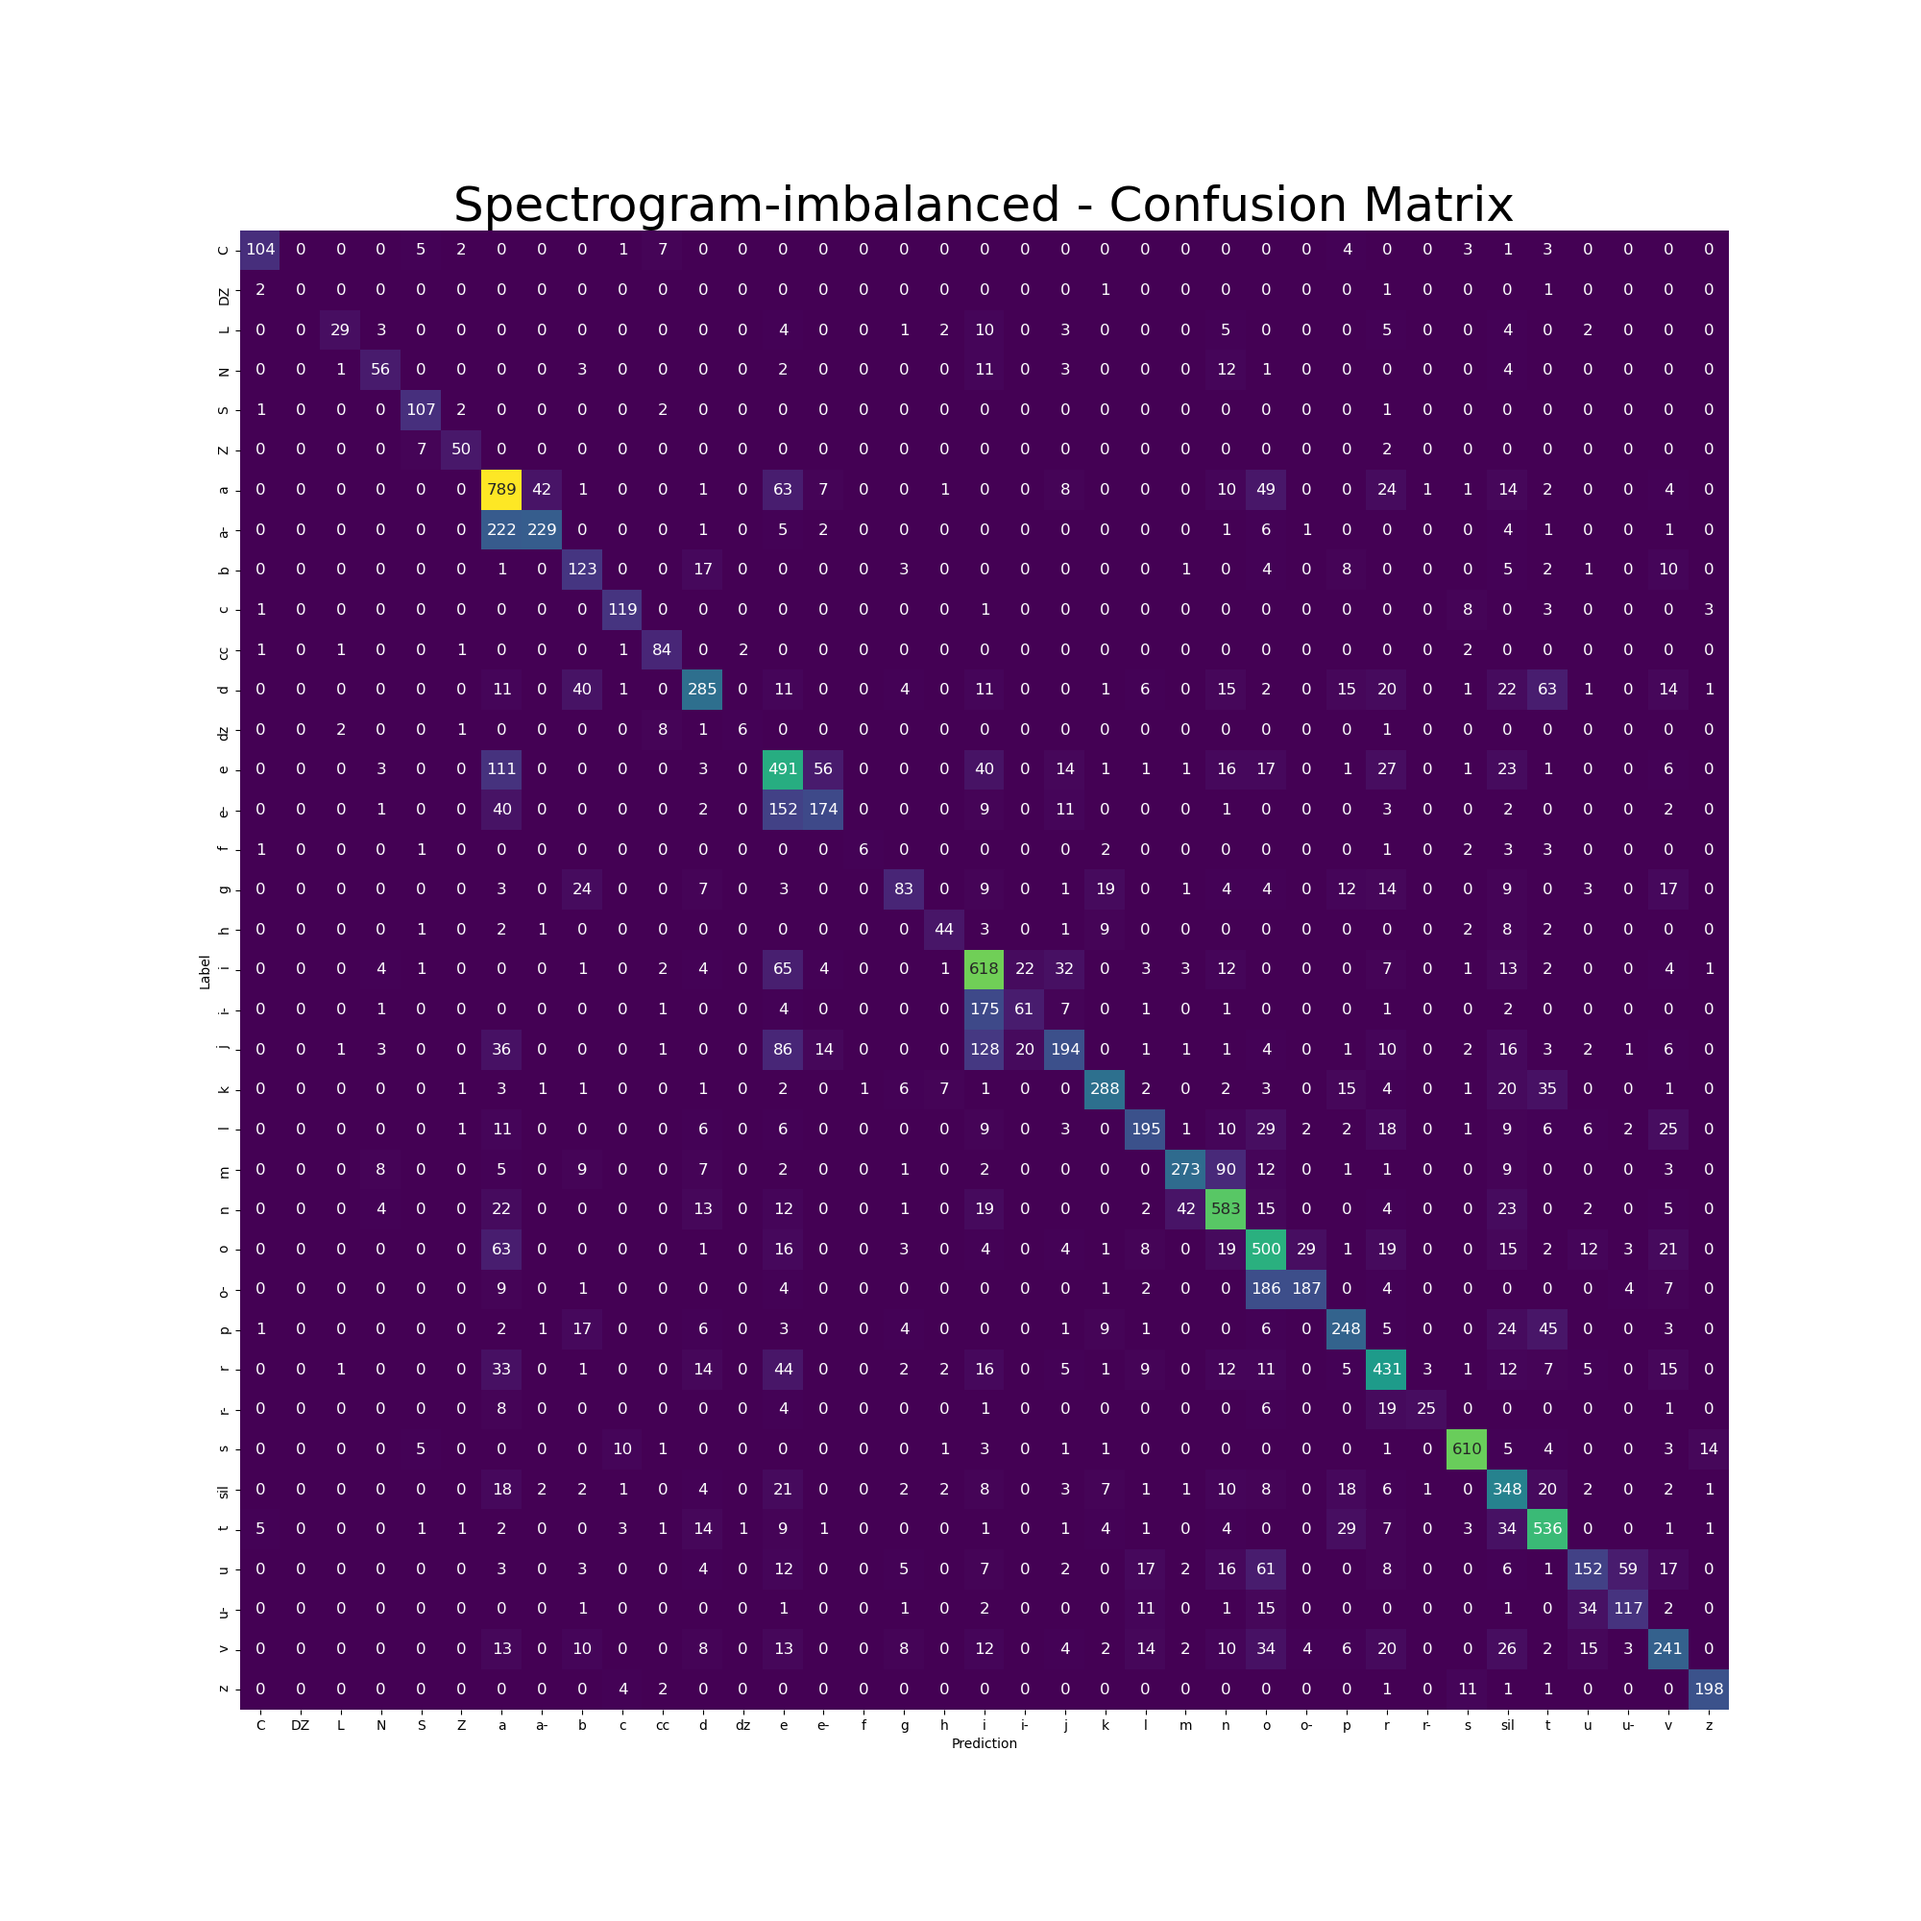
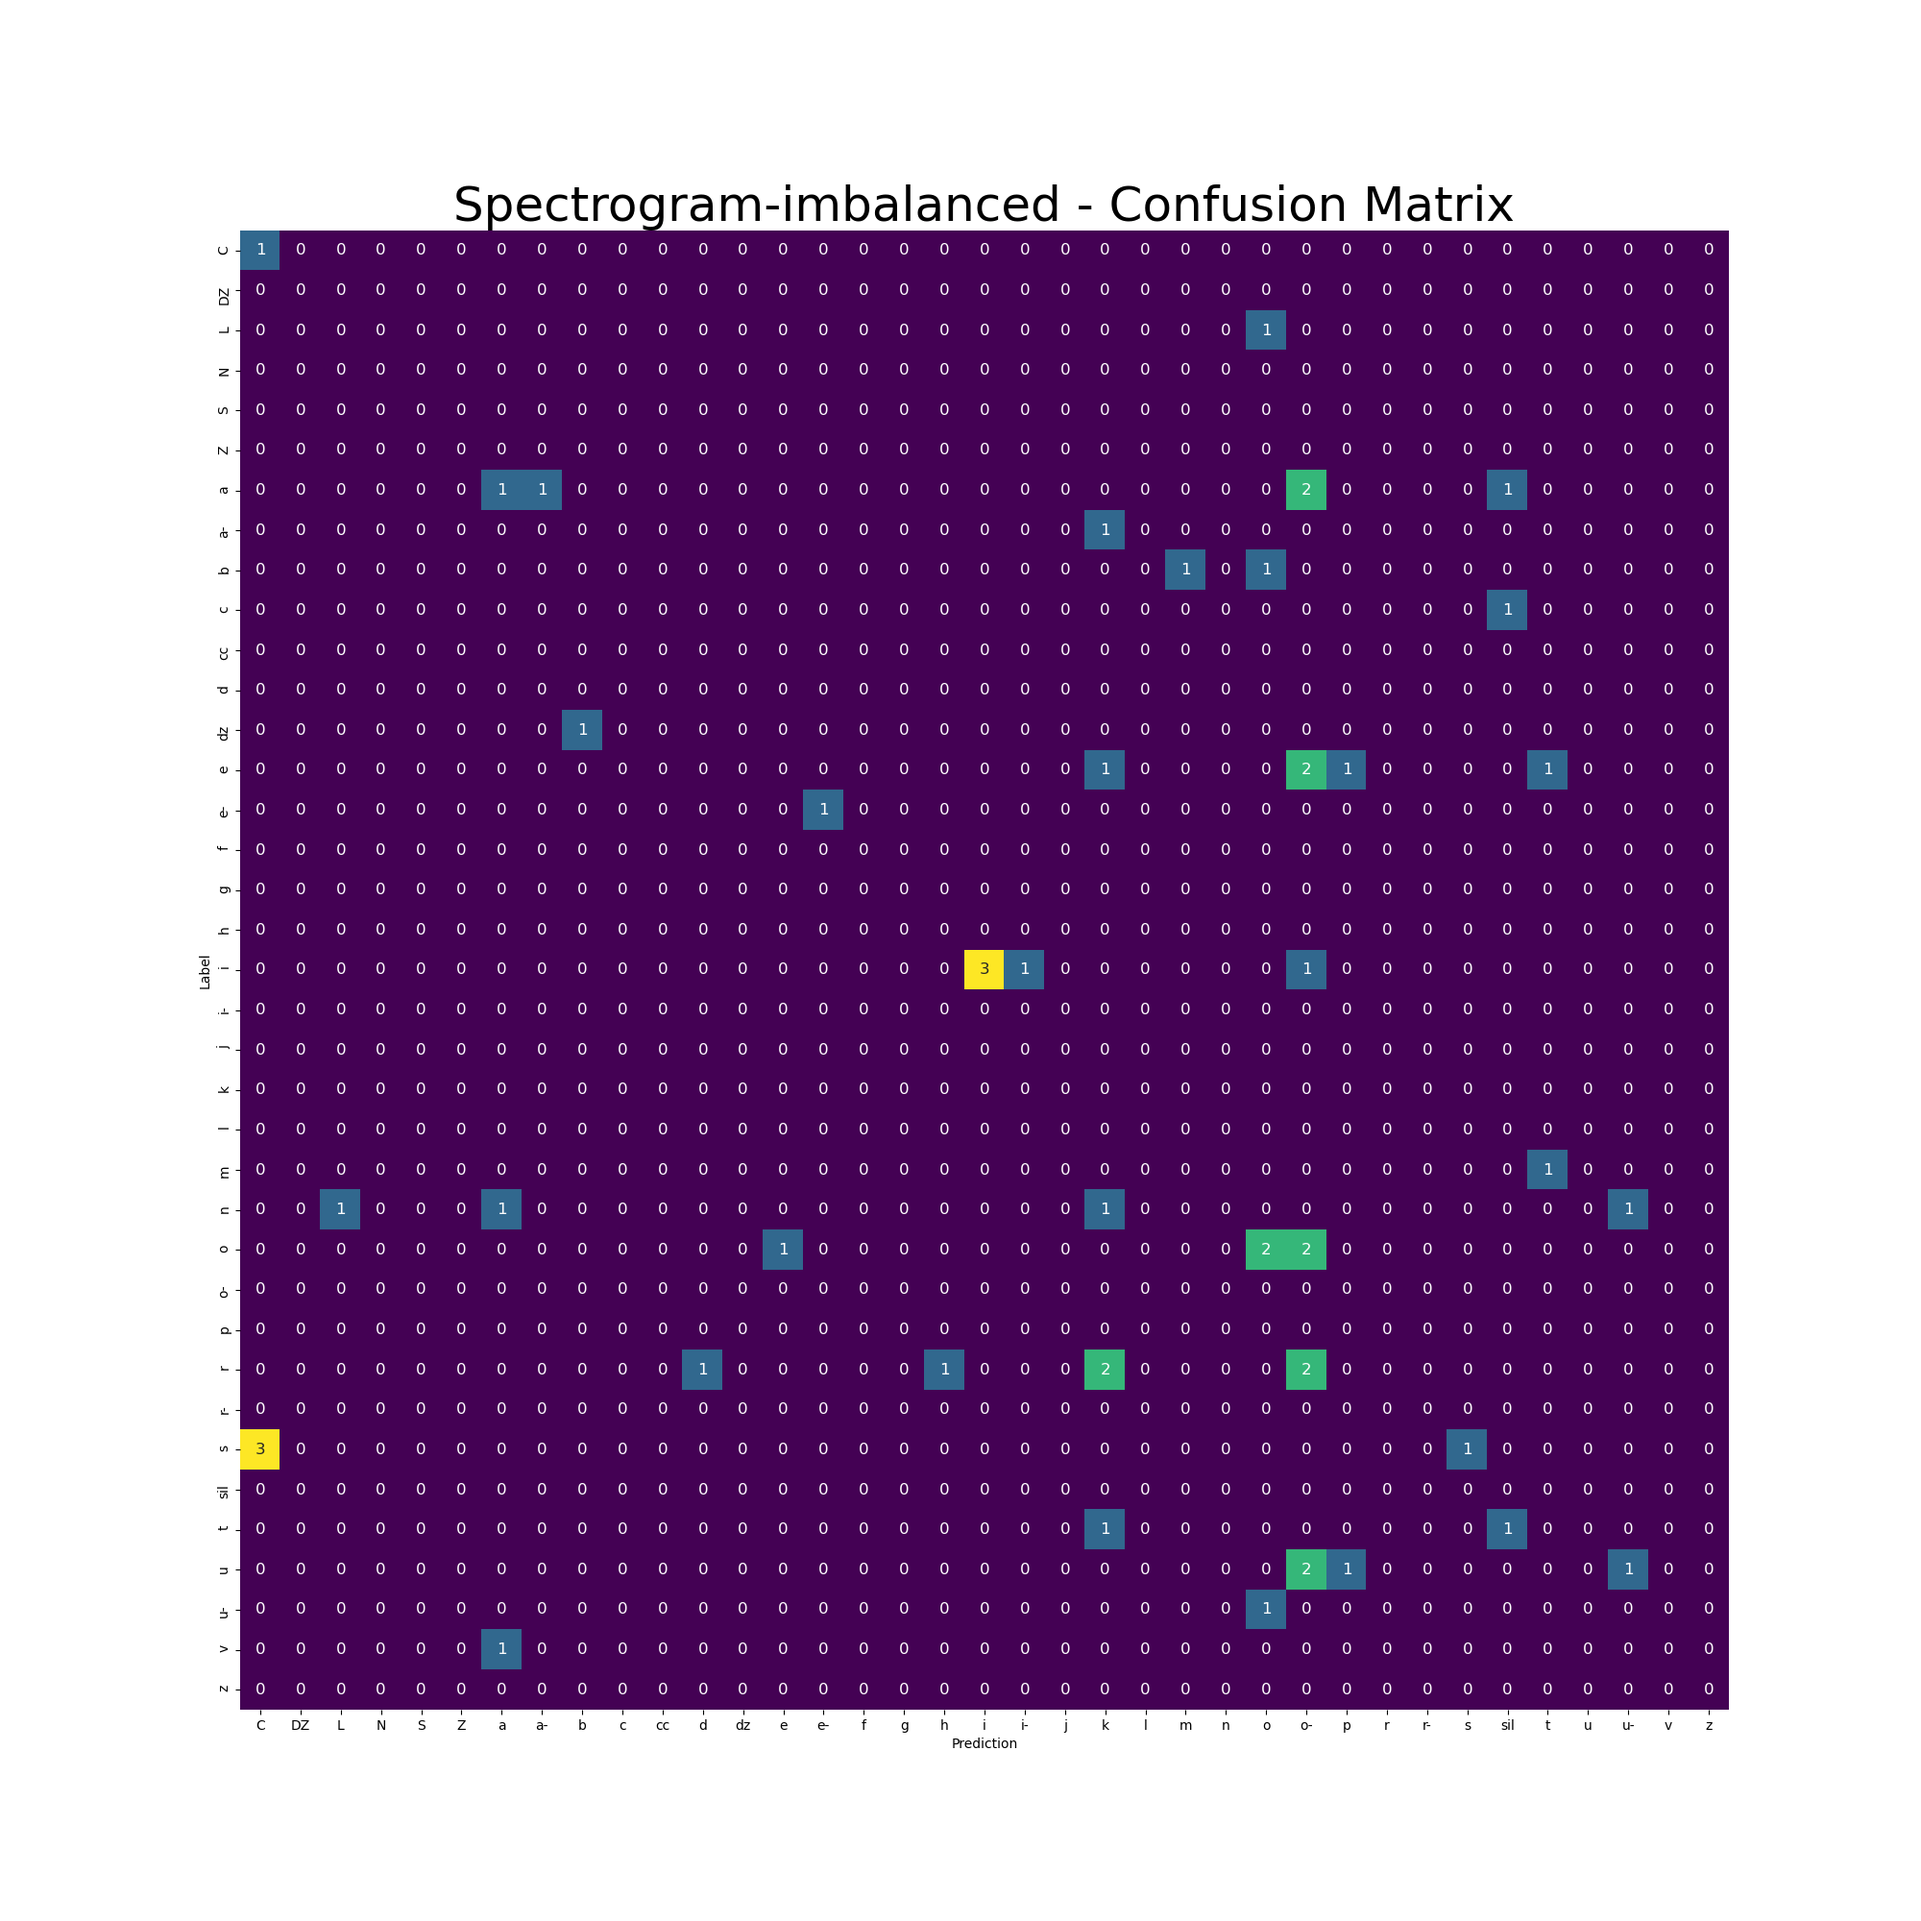
validate with new sounds

diff --git a/data_processing.py b/data_processing.py
@@ -1,6 +1,6 @@
 import numpy as np
 import os
-from snd_cut import cut_path
+from snd_cut import cut_path, recorded_cut_wav_path
 import librosa
 import re
 import librosa.display
@@ -26,6 +26,7 @@ class DatasetDistribution(Enum):
 train_file_path_txt = os.path.join('data', 'train_set.txt')
 test_file_path_txt = os.path.join('data', 'test_set.txt')
 validation_file_path_txt = os.path.join('data', 'validation_set.txt')
+recorded_validation_file_path_txt = os.path.join('data', 'recorded_validation_set.txt')
 
 # txt file that contains all labels
 labels_path_txt = os.path.join('data', 'labels.txt')
@@ -34,6 +35,7 @@ labels_path_txt = os.path.join('data', 'labels.txt')
 train_dataset_path_json = os.path.join('data', 'train_dataset.json')
 test_dataset_path_json = os.path.join('data', 'test_dataset.json')
 validation_dataset_path_json = os.path.join('data', 'validation_dataset.json')
+recorded_validation_dataset_path_json = os.path.join('data', 'recorded_validation_dataset.json')
 
 image_path = os.path.join('images')
 trained_model_path = os.path.join('trained_models')
@@ -48,6 +50,7 @@ def split_data():
     train = []
     test = []
     validation = []
+    recorded_validation = []
     for sound_folder in os.scandir(f'{cut_path}'):
         sound_data = []
         for sound_file in os.scandir(sound_folder):
@@ -64,11 +67,14 @@ def split_data():
         test = test + sound_data[train_index_end:test_index_end]
         validation = validation + sound_data[test_index_end:]
 
-    return train, test, validation
+    for sound_file in os.scandir(f'{recorded_cut_wav_path}'):
+        recorded_validation.append(os.path.join(recorded_cut_wav_path, os.path.basename(sound_file.name)))
+
+    return train, test, validation, recorded_validation
 
 
 # write train, test, validation datasets to txt files
-def write_split_data(train, test, validation):
+def write_split_data(train, test, validation, recorded_validation):
     train_file = open(train_file_path_txt, "w")
     train_file.write("\n".join(train))
     train_file.close()
@@ -80,13 +86,17 @@ def write_split_data(train, test, validation):
     validation_file = open(validation_file_path_txt, "w")
     validation_file.write("\n".join(validation))
     validation_file.close()
+
+    recorded_validation_file = open(recorded_validation_file_path_txt, "w")
+    recorded_validation_file.write("\n".join(recorded_validation))
+    recorded_validation_file.close()
     return
 
 
 # extract train, test, validation dataset paths and write to file
 def split_and_write_dataset_paths():
-    train_dataset, test_dataset, validation_dataset = split_data()
-    write_split_data(train_dataset, test_dataset, validation_dataset)
+    train_dataset, test_dataset, validation_dataset, recorded_validation = split_data()
+    write_split_data(train_dataset, test_dataset, validation_dataset, recorded_validation)
 
 
 # get sound file names within dataset paths
@@ -178,6 +188,13 @@ def write_datasets_to_json():
     validation_dataset_file.close()
     print('validation_dataset_file finished!')
 
+    recorded_validation_data = get_dataset(recorded_validation_file_path_txt)
+    recorded_validation = json.dumps(recorded_validation_data)
+    recorded_validation_dataset_file = open(recorded_validation_dataset_path_json, 'w')
+    recorded_validation_dataset_file.write(recorded_validation)
+    recorded_validation_dataset_file.close()
+    print('recorded_validation_dataset_file finished!')
+
     # extract all labels and write distinct values
     labels = []
     for data in train_data:
@@ -185,6 +202,8 @@ def write_datasets_to_json():
     for data in test_data:
         labels.append(data["label"])
     for data in validation_data:
+        labels.append(data["label"])
+    for data in recorded_validation_data:
         labels.append(data["label"])
 
     labels_file = open(labels_path_txt, 'w')
@@ -262,8 +281,6 @@ def balance_dataset(dataset):
                                          n_samples=max_samples,  # len(no_claim),
                                          random_state=RANDOM_SEED)
 
-        retval = retval + dataset_for_label
-    return retval
 
-# split_and_write_dataset_paths()
-# write_datasets_to_json()
+#split_and_write_dataset_paths()
+#write_datasets_to_json()

diff --git a/snd_cut.py b/snd_cut.py
@@ -3,20 +3,47 @@ import os
 import shutil
 import numpy as np
 
+# wav paths are cut according to lab paths and saved to cut_path
 wav_path = os.path.join('data', 'original', 'wav')
 lab_path = os.path.join('data', 'original', 'lab')
 cut_path = os.path.join('data', 'cut')
+
+# recorded wav paths are sounds that are cut according to 'desired duration' and saved to recorded cut wav path
+recorded_wav_path = os.path.join('data', 'recorded-sounds')
+recorded_cut_wav_path = os.path.join('data', 'recorded-sounds-cut')
+
 sounds_to_ignore = ['buka', 'greska', 'uzdah']
 
 
+# Cuts the wav file to desired duration and returns
+# if file is longer than desired duration, it is cut
+# if file is shorter than desired duration, silence is added
+def cut_to_desired_duration(wav, start_time, end_time, desired_duration):
+    duration = end_time - start_time
+    if duration > desired_duration:
+        end_time = start_time + desired_duration
+        duration = end_time - start_time
+    wav_single_sound = wav[start_time:end_time]
+
+    silence = AudioSegment.silent(duration=desired_duration - duration)
+    wav_single_sound = wav_single_sound + silence  # Adding silence after the audio
+    return wav_single_sound
+
+
 def snd_cut():
-    # Delete folder containing sound cuts
+    # Delete folders containing sound cuts
     if os.path.exists(f'{cut_path}'):
         shutil.rmtree(f'{cut_path}')
 
+    if os.path.exists(f'{recorded_cut_wav_path}'):
+        shutil.rmtree(f'{recorded_cut_wav_path}')
+
     os.makedirs(f'{cut_path}')
+    os.makedirs(f'{recorded_cut_wav_path}')
+
     # Extract wav and lab files
     wav_files = os.scandir(f'{wav_path}')
+    recorded_sound_files = os.scandir(f'{recorded_wav_path}')
     desired_duration = 0
 
     # calculate desired_duration based on average/max? sound lengths
@@ -50,7 +77,6 @@ def snd_cut():
             start_time = int(int(line_content[
                                      0]) / 10 ** 4)  # time is in microseconds*0.1, we convert this to miliseconds (required for AudioSegment)
             end_time = int(int(line_content[1]) / 10 ** 4)
-            duration = end_time - start_time  # duration of audio file in ms
 
             # if length is 0, then continue (we work with int, not float)
             if start_time == end_time:
@@ -63,13 +89,7 @@ def snd_cut():
                 continue
 
             # cutting wav file
-            if duration > desired_duration:
-                end_time = start_time + desired_duration
-                duration = end_time - start_time
-            wav_single_sound = wav[start_time:end_time]
-
-            silence = AudioSegment.silent(duration=desired_duration - duration)
-            wav_single_sound = wav_single_sound + silence  # Adding silence after the audio
+            wav_single_sound = cut_to_desired_duration(wav, start_time, end_time, desired_duration)
 
             # windows folder naming is case insensitive
             # we add '_' prefix to uppercase sound labels so they dont merge with the lowercase sound label folder
@@ -82,6 +102,15 @@ def snd_cut():
 
             wav_single_sound.export(os.path.join(cut_path, sound_folder_name, f'{filename}.wav'), format="wav")
         lab_file.close()
+
+    # extracting sounds from recorded .wav files
+    for recorded_wav_file in recorded_sound_files:
+        recorded_wav = AudioSegment.from_wav(recorded_wav_file)
+        start_time = 0
+        end_time = np.floor(recorded_wav.duration_seconds * 1000)
+        recorded_cut_wav = cut_to_desired_duration(recorded_wav, start_time, end_time, desired_duration)
+
+        recorded_cut_wav.export(os.path.join(recorded_cut_wav_path, recorded_wav_file.name), format="wav")
 
 
 # snd_cut()

diff --git a/validate.py b/validate.py
@@ -21,7 +21,8 @@ def prep_submissions(preds_array):
 def draw_confusion_matrix(true, preds, labels):
     title = f"{tr.model_name} - Confusion Matrix"
     plt.figure(figsize=(20, 20))
-    conf_matx = confusion_matrix(true, preds)
+    test = tr.shape_labels(labels, labels)
+    conf_matx = confusion_matrix(true, preds, labels=test)
     sns.heatmap(conf_matx, annot=True, annot_kws={"size": 12}, fmt='g', cbar=False, cmap="viridis", xticklabels=labels, yticklabels=labels)
     plt.xlabel('Prediction')
     plt.ylabel('Label')
@@ -32,7 +33,7 @@ def draw_confusion_matrix(true, preds, labels):
 
 def validate_model(model_filename):
     # load validation dataset
-    validation = dp.load_dataset_from_json(dp.validation_dataset_path_json, tr.model_feature)
+    validation = dp.load_dataset_from_json(dp.recorded_validation_dataset_path_json, tr.model_feature)
     validation_data = []
     validation_labels = []
 
@@ -45,6 +46,9 @@ def validate_model(model_filename):
 
     # read labels from file
     labels = dp.get_labels()
+
+    print(sorted(validation_labels))
+    print(sorted(labels))
 
     # shape data for model
     validation_data = np.array(validation_data)
@@ -67,4 +71,4 @@ def validate_model(model_filename):
     draw_confusion_matrix(validation_labels, validation_preds_labels, labels)
 
 
-#validate_model(tr.model_name)
+validate_model(tr.model_name)

diff --git a/train.py b/train.py
@@ -12,11 +12,13 @@ from tensorflow.keras.callbacks import EarlyStopping, ModelCheckpoint
 import time
 
 if not os.path.exists(f'{dp.train_file_path_txt}') or not os.path.exists(
-        f'{dp.test_file_path_txt}') or not os.path.exists(f'{dp.validation_dataset_path_json}'):
+        f'{dp.test_file_path_txt}') or not os.path.exists(f'{dp.validation_file_path_txt}')\
+        or not os.path.exists(f'{dp.recorded_validation_file_path_txt}'):
     dp.split_and_write_dataset_paths()
 
 if not os.path.exists(f'{dp.train_dataset_path_json}') or not os.path.exists(
-        f'{dp.test_dataset_path_json}') or not os.path.exists(f'{dp.validation_dataset_path_json}'):
+        f'{dp.test_dataset_path_json}') or not os.path.exists(f'{dp.validation_dataset_path_json}')\
+        or not os.path.exists(f'{dp.recorded_validation_dataset_path_json}'):
     dp.write_datasets_to_json()
 
 # model feature to train model: Spectrogram or Cepstrum
@@ -142,7 +144,7 @@ def main():
     epochs = 15
     history = model.fit(train_data,
                         train_labels,
-                        batch_size=80,
+                        batch_size=128,
                         validation_data=(test_data, test_labels),
                         epochs=epochs,
                         callbacks=[early_stopping, model_checkpoint],
